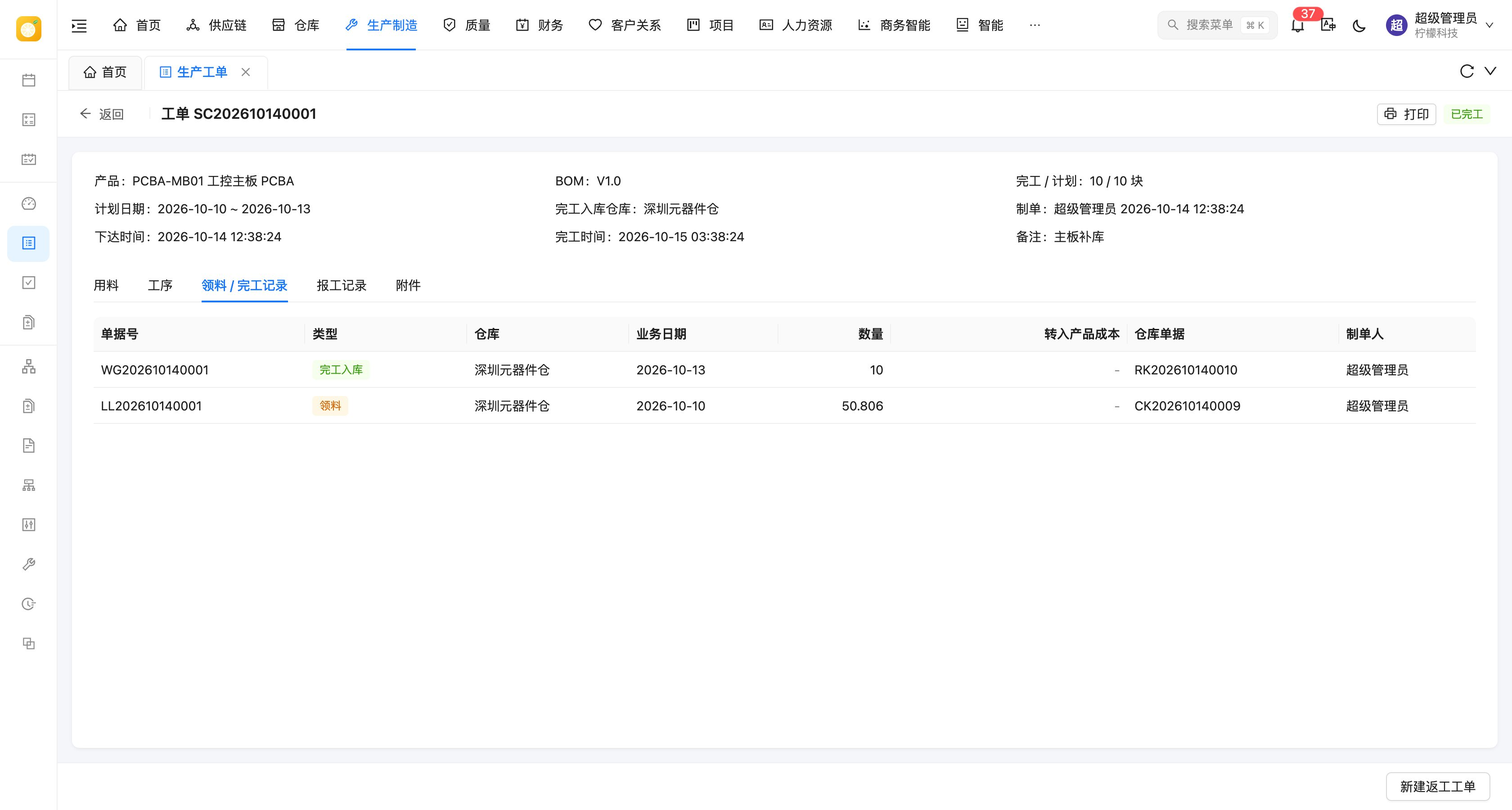
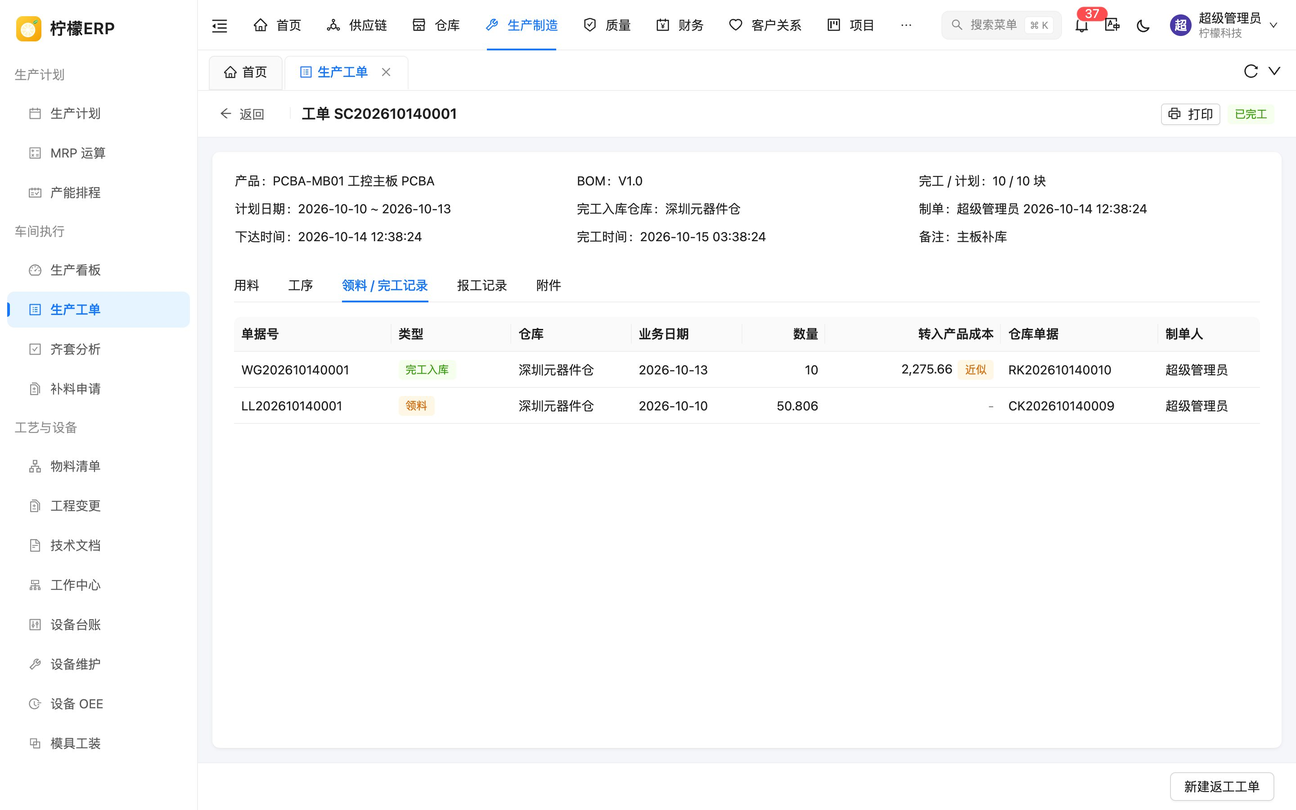
docs: 同步付款审批金额、成本可见范围、自动核销红字冲抵等修复

diff --git a/docs/dev/guide/stock-cost.md b/docs/dev/guide/stock-cost.md
@@ -62,9 +62,9 @@ StockChange.of(warehouseId, locationId, materialId, batchNo, qty, serials)
 | 采购入库 / 退货 | 行不含税金额（本位币，含促销、返利、整单优惠分摊）/ 数量，同时作为业务单价；退货按退货单价冲减 | scm `ScmStockCosts.enrich` |
 | 销售出库 | 当前均价（`unitCost` 为空），业务单价为不含税售价 | `ScmStockCosts.enrich` |
 | 销售退货 | 该订单原销售出库的实际成本（`StockCostService.docUnitCosts`），没有时按均价 | `ScmStockCosts.originalOutCosts` |
-| 其他入库 | 表单填写的成本价，前端默认 `GET /wms/stock/unit-cost` 返回的均价，保存成本为 0 的行前二次确认 | `StockDocForm.vue` |
+| 其他入库 | 表单填写的成本价（4 位小数）；有 `wms:stock:cost` 时前端默认 `GET /wms/stock/unit-cost` 返回的均价，没有时不带出、为空按确认时的均价；保存成本为 0 的行前二次确认 | `StockDocForm.vue` |
 | 期初入库 | 导入行的 `costPrice`，为空取参考成本价 | `WmsOpeningStockService` |
-| 盘点 | 盘盈 `wms_check_item.cost_price`（空则均价），盘亏均价 | `WmsCheckService` |
+| 盘点 | 盘盈 `wms_check_item.cost_price`（空则确认时的均价；前端输入 4 位小数，有 `wms:stock:cost` 时以均价作为输入提示），盘亏均价 | `WmsCheckService` |
 | 组装 / 拆卸 | 组装：成套件 = 子件出库成本合计（`docAmount`）/ 数量；拆卸：成套件出库成本按 子件数量 × 均价 的权重 `allocate` 到子件 | `WmsAssemblyService` |
 | 冲销 | 原单各物料的实际成本单价反向（`StockDocRules.reverseChanges(..., costs)`） | `StockDocReverser` |
 | 生产领料 / 补料、其他出库、各类领用 | 当前均价 | — |
@@ -102,17 +102,22 @@ StockChange.of(warehouseId, locationId, materialId, batchNo, qty, serials)
 | 功能 | 接口 / 代码 |
 | --- | --- |
 | 库存查询的均价、库存金额 | `WmsStockMapper.xml` 的 `avgCost` 片段（没有成本记录或数量为 0 且无单价时取参考成本价），寄售仓为空；合计 `GET /wms/stock/total` |
-| 当前均价（表单默认值） | `GET /wms/stock/unit-cost?materialIds=`，权限 `wms:stock:cost` 或入库单 / 盘点单的新增、修改 |
+| 当前均价（表单默认值） | `GET /wms/stock/unit-cost?materialIds=`，只要求 `wms:stock:cost`（均价是系统计算的成本，只能新增 / 修改入库单、盘点单的人拿不到）；前端没有该权限时不调用 |
 | 经营历史 | `GET /wms/stock/history`（`WmsStockQueryService.history`，前端 `components/wms/StockHistory.vue`）：期初 + 日期范围内的流水（最多 5000 条），不选仓库时排除调拨和寄售仓；日期取单据业务日期 |
 | 库存流水 | 流水分页返回 `bizPrice`、`costPrice`、`costAmount`、`partnerName`、`costEstimated` |
 
-单价和金额由按钮权限 `wms:stock:cost`（「查看成本金额」）控制，**后端不返回**（置空），不是只在前端隐藏；前端用 `hasPerm('wms:stock:cost')` 决定是否显示列。盘点单详情另外允许盘点单新增 / 修改权限查看（`costVisible`），入库单详情允许入库单新增 / 修改权限查看明细成本价。
+单价和金额由按钮权限 `wms:stock:cost`（「查看成本金额」）控制，**后端不返回**（置空），不是只在前端隐藏；前端用 `hasPerm('wms:stock:cost')` 决定是否显示列。系统计算的成本（当前均价、出库成本、确认后的实际入库成本、盘点差异金额）只给有该权限的人；没有该权限、但要录入成本价的人只能看到自己填写的值：
+
+- **盘点单详情**（`WmsCheckService.detail`）：`costVisible` = 有 `wms:stock:cost`，或盘点单**未完成**且有 `wms:check:add` / `wms:check:edit`；为假时置空 `costPrice`。当前均价 `avgCost`（`fillAvgCost`）和已完成单据的差异金额 `diffAmount`（按流水 `selectSlotCosts` 汇总）只在有 `wms:stock:cost` 时填充；按库存生成明细时同样只对有该权限的人带出均价。前端差异金额列按 `hasPerm('wms:stock:cost')` 显示；已完成单据没填成本价的盘盈行，成本价列显示 `diffAmount ÷ 盘盈数量`（实际计价单价），不再显示「默认当前均价」。
+- **出入库单详情**（`WmsStockDocService.detail`）：没有 `wms:stock:cost` 时总是置空 `bizPrice`；`costPrice` 只在入库单为**草稿**且有 `wms:in:add` / `wms:in:edit` 时保留（填写其他入库的成本价），确认后的入库单、出库单都置空。
 
 进销存报表（bi 模块 `BiJxcMapper.xml`）：`flowCost` 片段按 `wms_doc_id` 关联库存流水，汇总单据各物料的成本金额与数量；`saleUnitCost` = `COALESCE(实时出库成本单价, 当月核算单价, 参考成本价)`。资产状况、商品分析的库存金额用 `latestCost`（实时均价 → 最近一期核算单价 → 参考成本价）。详见 [进销存报表开发](./jxc-report)。
 
 ## 近似成本与升级
 
-升级前的流水没有实时计价。升级脚本按以下方式回填并标记 `cost_estimated = 1`：采购入库 / 退货取单据不含税单价，其他流水取所在月份及之前最近一期的成本核算单价，没有时取参考成本价。物料的实时成本按当前库存 × 最近一期核算单价初始化，历史完工入库的流水成本回填为材料成本（工费为 0，`cost_basis` 为空）。前端在这些行的成本价前显示「近似」标签；经营历史的期初含这类流水时返回 `openingEstimated`。
+升级前的流水没有实时计价。升级脚本按以下方式回填并标记 `cost_estimated = 1`：采购入库 / 退货取单据不含税单价，其他流水取所在月份及之前最近一期的成本核算单价，没有时取参考成本价。物料的实时成本按当前库存 × 最近一期核算单价初始化，历史完工入库的流水成本回填为材料成本（工费为 0，`cost_basis` 为空）。前端在这些行的成本价前显示「近似」标签；经营历史的期初含这类流水时返回 `openingEstimated`。工单详情的「领料 / 完工记录」（`WoDocsTab.vue`）中，`cost_basis` 为空但 `material_cost` 不为空的完工入库显示料工费合计和橙色「近似」标签（`mes.wo.cost.estimated` / `estimatedTip`），不再显示「-」。
+
+采购入库按各自的业务单价回填、出库和物料成本按核算单价，两者累计会有差额，导致经营历史的结余金额与库存查询的库存金额不一致。因此升级脚本最后把物料库存金额与流水成本累计对齐：对流水全部是回填近似成本（没有升级后业务、没有成本为空的流水）、且流水累计数量（不含供应商寄售仓）等于 `wms_material_cost.qty` 的物料，`amount` 取流水 `cost_amount` 累计，`unit_cost` 重算为 `amount / qty`（6 位小数）。已对齐的不再变化，可重复执行；累计数量为 0、金额为负的物料不处理。
 
 ## 与月末成本核算的关系
 

diff --git a/docs/dev/guide/settlement.md b/docs/dev/guide/settlement.md
@@ -45,7 +45,7 @@ order: 20
 - 同一张收付款单只能核销同一往来单位、同一币种的单据；核销合计（`fin_settlement.amount_fc`）**不能小于 0**，可以为 0（红字冲账单、退货恰好抵消欠款）；
 - 收付款单的 `amount` / `amount_fc` 只是核销合计（实收实付），折让合计记 `discount_amount` / `discount_fc`，多收部分记 `advance_amount`（原币），都不含在 `amount` 中；
 - 不走审批时立即调用 `settle` 核销：`addSettled(本位币核销 + 本位币折让)`、`addSettledFc(原币核销 + 原币折让)`、`addDiscount`，然后 `toAdvance`；
-- 付款审批（`fin_payment`，`ApprovalFlow` `PAYMENT_FLOW`）时保存只校验未核销金额，审批通过后（`onPaymentFinished`）才核销并生成预付单；审批变量 `amount` 为核销合计的本位币；
+- 付款审批（`fin_payment`，`ApprovalFlow` `PAYMENT_FLOW`）时保存只校验未核销金额，审批通过后（`onPaymentFinished`）才核销并生成预付单；审批变量 `amount` 为实际付出的本位币 = `s.amount`（核销合计，外币为原币 × 收付款汇率）+ `advance × settleRate`（多付转预付），不能只取核销合计，否则可以把大额付款做成预付绕过金额条件；
 - 删除（未生成凭证）时按明细反向 `addSettled` / `addSettledFc` / `addDiscount`，并 `FinAdvanceService.delete(advanceId)` 删除转入的预收预付单（已冲抵或凭证已审核时会失败，整体回滚）。
 
 ### 自动核销（前端）
@@ -54,11 +54,13 @@ order: 20
 
 「自动核销」调用 `components/fin/fin.js` 的 `allocateSettle(bills, target, remainingOf)`：
 
-1. 红字单据（`remainingOf(b) < 0`）全额冲抵，目标金额相应增加；
+1. 红字单据（`remainingOf(b) < 0`）由内部的 `offsetRed` 冲抵：冲抵总额不超过蓝字单据（`remainingOf(b) > 0`）的余额合计，按 单据日期 → 到期日 → ID 从早到晚冲抵，冲不完的红字单据（或其剩余部分）不填，留待下次核销；目标金额按冲抵额相应增加；
 2. 蓝字单据按 单据日期 → 到期日 → ID 从早到晚分配，直到目标金额用完；
 3. 返回各单据的核销金额和剩余（多收）金额。
 
-`remainingOf` 传入「未核销 − 已填折让」，所以先填折让再自动核销时折让保留。票据收票、背书的 `BillSettleTable.vue` 共用这个函数。页面按 `diff = 本次金额 − 核销合计` 显示「多收」提示和「转为预收 / 预付款」勾选框，`diff < 0` 时禁止提交。
+「全部核销」调用 `settleAllAmounts(bills, remainingOf)`：蓝字单据全部按余额填满，红字单据同样经 `offsetRed` 冲抵，核销合计不会为负数；页面随后把本次金额同步为核销合计。因此冲账、退货金额大于勾选的欠款时，两个按钮都会得到核销合计为 0 的结果，可以直接提交，不需要手工改红字单据的金额。
+
+`remainingOf` 传入「未核销 − 已填折让」，所以先填折让再自动核销时折让保留。票据收票、背书的 `BillSettleTable.vue` 共用 `allocateSettle`。页面按 `diff = 本次金额 − 核销合计` 显示「多收」提示和「转为预收 / 预付款」勾选框，`diff < 0` 时禁止提交。
 
 ### 折让记录
 
@@ -96,7 +98,7 @@ order: 20
 | 操作 | 接口 | 权限 | 说明 |
 | --- | --- | --- | --- |
 | 列表 / 详情 | `GET /fin/offset`、`/{id}` | `fin:offset:list` | `FinOffsetMapper.selectPageList` / `selectDetail` 关联红字单据的核销金额、凭证号和状态 |
-| 新增 / 修改 | `POST` / `PUT /{id}` | `fin:offset:add` / `edit` | `OffsetRequests.Save`；修改用条件更新，只能改待复核的 |
+| 新增 / 修改 | `POST` / `PUT /{id}` | `fin:offset:add` / `edit` | `OffsetRequests.Save`；修改用条件更新，只能改待复核的。`handlerId` 不传时：新增取当前用户，修改保留原经办人（原来也没有时取当前用户） |
 | 删除 | `DELETE /{ids}` | `fin:offset:remove` | 只能删待复核的 |
 | 复核 | `POST /{id}/review` | `fin:offset:review` | 见下文 |
 | 取消复核 | `POST /{id}/cancel-review` | `fin:offset:review` | 见下文 |
@@ -146,7 +148,7 @@ order: 20
 | `model/AccountRole`、`model/BillSource`、`model/OffsetStatus` | 凭证用途、单据来源 `OFFSET`、冲账单状态 |
 | `service/FinBizRules` | `fin.offset.reviewSeparate` |
 | `mapper/fin/FinSettlementItemMapper.xml`、`FinOffsetMapper.xml`、`FinBillMapper.xml`、`FinAdvanceMapper.xml`、`FinPartnerLedgerMapper.xml` | 折让记录、冲账单列表、核销条件更新、账龄、往来对账 |
-| 前端 `components/fin/SettlementPage.vue`、`SettlementForm.vue`、`SettlementDiscounts.vue`、`fin.js`（`allocateSettle`） | 收付款列表、新增、折让记录、自动核销 |
+| 前端 `components/fin/SettlementPage.vue`、`SettlementForm.vue`、`SettlementDiscounts.vue`、`fin.js`（`allocateSettle`、`settleAllAmounts`） | 收付款列表、新增、折让记录、自动核销 / 全部核销 |
 | 前端 `views/fin/advance/index.vue`、`views/fin/offset/index.vue`、`components/fin/BillPage.vue` | 预收预付、冲账单、应收应付（坏账按钮） |
 
 ## 扩展

diff --git a/docs/manual/wms/stock.md b/docs/manual/wms/stock.md
@@ -91,6 +91,8 @@ order: 5
 
 ::: tip 近似成本
 系统升级到实时库存成本之前的历史流水没有当时的计价，升级时按单据价格（采购取不含税单价）、流水所在月份的成本核算单价或物料的参考成本价补算，是近似值：这些行的成本价前显示橙色「**近似**」标签（鼠标悬停有说明），期初余额包含这类流水时，「期初余额」后也显示「近似」。升级之后发生的流水是准确的实时成本。[库存流水](./flow)中同样标出。
+
+升级时，流水全部是补算成本、且流水累计数量与当前库存一致的物料，库存金额取这些流水的成本累计（均价随之重算），因此经营历史的结余金额与库存查询的库存金额一致。
 :::
 
 ## 实时库存成本
@@ -103,7 +105,7 @@ order: 5
 | --- | --- |
 | [采购入库](../scm/purchase-in) | 行的不含税金额 ÷ 数量（本位币，已扣除促销、返利、整单优惠的分摊）；**采购退货**按退货单的不含税单价冲减 |
 | [销售出库](../scm/sales-out) | 按当前均价出库；**销售退货**按该订单原销售出库的实际成本入库 |
-| [其他入库](./in#成本价) | 按填写的成本价（默认当前均价，可改为 0，如赠品） |
+| [其他入库](./in#成本价) | 按填写的成本价（有「查看成本金额」权限时默认带出当前均价，可改为 0，如赠品；不填按确认时的均价） |
 | 期初入库 | 按[期初余额](../fin/opening)导入时填写的成本单价，不填按物料的参考成本价 |
 | 其他出库、报废出库、各类领用 | 按当前均价出库 |
 | [盘点](./check#盘盈成本价) | 盘盈按盘点明细填写的成本价（不填按确认时的均价），盘亏按当前均价 |
@@ -118,7 +120,7 @@ order: 5
 其他规则：
 
 - 物料出完（结余为 0）时剩余金额全部转出，不留尾差；结余为 0 时保留最后的单价，下次没有指定成本的入库按它计价；从来没有成本的物料取物料档案的「参考成本价」。
-- 物料第一次发生库存变动时开始计价，以当时的库存数量和参考成本价作为起点；从旧版本升级的系统，升级时按各物料最近一期成本核算的单价（没有时取参考成本价）初始化。
+- 物料第一次发生库存变动时开始计价，以当时的库存数量和参考成本价作为起点；从旧版本升级的系统，升级时按各物料最近一期成本核算的单价（没有时取参考成本价）初始化，再与补算的历史流水成本累计对齐（见上文「近似成本」）。
 - 供应商寄售仓与本公司仓库之间**不能互相调拨**，见[调拨单](./transfer#供应商寄售仓)。
 
 ::: warning 与月末成本核算的关系
@@ -144,7 +146,7 @@ order: 5
 ::: tip 提示
 安全库存在[物料管理](./material)中设置，按全部仓库的库存合计判断。数量最多显示 4 位小数，并带千分位。
 
-均价、库存金额，以及库存流水、经营历史、出入库单详情中的单价和金额，都由按钮权限「**查看成本金额**」（库存查询下的按钮）控制，内置角色中总经理、仓库管理员、会计拥有；没有该权限时这些列不显示，系统也不返回这些数据。
+均价、库存金额，以及库存流水、经营历史、出入库单详情中的单价和金额、盘点单的差异金额，都由按钮权限「**查看成本金额**」（库存查询下的按钮）控制，内置角色中总经理、仓库管理员、会计拥有；没有该权限时这些列不显示，系统也不返回这些数据。录入其他入库、盘点单时也不会带出当前均价：没有该权限的人只能在草稿入库单、未确认的盘点单上看到和填写自己的成本价，见[入库单 · 成本价](./in#成本价)、[盘点单 · 盘盈成本价](./check#盘盈成本价)。
 
 多规格物料的库存按 SKU 记录，每个 SKU 单独一行（物料编码如 TS01-RD-XL，规格型号中带颜色、尺码等属性值）；款式本身不能出入库，没有库存。按款式编码查询（如输入 TS01）可以列出该款式的全部 SKU。
 :::

diff --git a/docs/manual/wms/in.md b/docs/manual/wms/in.md
@@ -69,7 +69,7 @@ order: 1
 | 批次号 | 启用批次管理的物料必填，最多 64 字符；未启用的不可填 |
 | 生产日期、有效期至 | 仅批次物料可填，有效期不能早于生产日期。同一批次以第一次入库填写的日期为准 |
 | 数量 | 必填，必须大于 0，最多 4 位小数；序列号物料只能是整数 |
-| 成本价 | 仅「其他入库」显示（寄售入库不计成本，不显示）。这一行的入库成本单价，选择物料后自动填入物料的当前均价，可修改，见[成本价](#成本价) |
+| 成本价 | 仅「其他入库」显示（寄售入库不计成本，不显示）。这一行的入库成本单价，有「查看成本金额」权限时选择物料后自动填入物料的当前均价，可修改，见[成本价](#成本价) |
 | 序列号 | 仅序列号物料。可用扫码枪逐个扫描，也可以粘贴多个（逗号、分号、空格、换行分隔），自动去重；右侧显示「已录个数 / 数量」，不一致时变为黄色。单个序列号不超过 64 字符 |
 | 备注 | 可选 |
 
@@ -90,10 +90,10 @@ order: 1
 
 ![其他入库填写成本价](/images/manual/wms/in-add-cost.jpg)
 
-- 选择物料后默认填入该物料的**当前均价**（[实时库存成本](./stock#实时库存成本)，没有时为参考成本价），按入库物料的实际价值修改，例如样品退回按原成本、受赠物资按公允价值；
+- 有「查看成本金额」权限时，选择物料后默认填入该物料的**当前均价**（[实时库存成本](./stock#实时库存成本)，没有时为参考成本价），按入库物料的实际价值修改，例如样品退回按原成本、受赠物资按公允价值；没有该权限时不自动带出均价（均价属于成本信息），输入框提示「默认当前均价」，按实际价值填写，不填按确认时的均价；
 - 可以改为 **0**（如赠品）：保存时提示「有 N 行成本价为 0，将按零成本入库（如赠品）。确定保存吗？」，确认后才保存，避免漏填被当作零成本；
 - 清空不填时，确认入库时按当时的均价计价；
-- 成本价不能小于 0，最多 6 位小数。
+- 成本价不能小于 0，最多 4 位小数。
 
 成本价只影响实时库存成本（库存金额、经营历史、毛利），月末[成本核算](../fin/cost)对其他入库另行计价。期初库存在「财务 → [期初余额](../fin/opening)」中导入，导入模板的「成本单价」列就是期初入库的成本（不填按参考成本价）。
 
@@ -107,7 +107,7 @@ order: 1
 
 ## 详情
 
-点击单据号或「查看」打开详情，显示表头信息（入库类型、填写了时显示入库类别、来源单号、往来单位（采购入库、销售退货等业务单据生成时为供应商或客户）、冲销原单、制单、确认、收货信息）和明细（物料、库位、批次及生产日期 ~ 有效期、数量、成本价、序列号、备注）。「成本价」列在单据有成本价、且你有「查看成本金额」权限或入库单新增 / 修改权限时显示：手工其他入库为填写的成本价，业务单据生成的为业务传入的入库成本（如采购的不含税单价、完工入库的单位成本）。
+点击单据号或「查看」打开详情，显示表头信息（入库类型、填写了时显示入库类别、来源单号、往来单位（采购入库、销售退货等业务单据生成时为供应商或客户）、冲销原单、制单、确认、收货信息）和明细（物料、库位、批次及生产日期 ~ 有效期、数量、成本价、序列号、备注）。「成本价」列在单据有成本价、且你有「查看成本金额」权限时显示：手工其他入库为填写的成本价，业务单据生成的为业务传入的入库成本（如采购的不含税单价、完工入库的单位成本）。没有「查看成本金额」权限但有入库单新增 / 修改权限的，只在草稿入库单上看到填写的成本价，确认后的入库单不显示成本价。
 
 ![入库单详情](/images/manual/wms/in-detail.jpg)
 

diff --git a/docs/manual/wms/check.md b/docs/manual/wms/check.md
@@ -66,9 +66,9 @@ order: 4
 
 ![盘点单填写盘盈成本价](/images/manual/wms/check-add.jpg)
 
-差异为正（盘盈）的行可以填写「**盘盈成本价**」，即盘盈的物料以什么单价进入库存（不含税、按基本单位）。输入框中灰色提示「均价 X」为该物料的当前均价；不填时，确认盘点时按当时的均价入库。盘亏的行不用填写，按当前均价出库，显示「-」。
+差异为正（盘盈）的行可以填写「**盘盈成本价**」，即盘盈的物料以什么单价进入库存（不含税、按基本单位，最多 4 位小数）。有「查看成本金额」权限时，输入框中灰色提示「均价 X」为该物料的当前均价；没有该权限时只提示「默认当前均价」，不显示具体数值。不填时，确认盘点时按当时的均价入库。盘亏的行不用填写，按当前均价出库，显示「-」。
 
-该列在有「查看成本金额」权限，或有盘点单新增 / 修改权限时显示。成本价只影响[实时库存成本](./stock#实时库存成本)，月末[成本核算](../fin/cost)对盘盈盘亏另行计价。
+该列在有「查看成本金额」权限，或有盘点单新增 / 修改权限时显示。当前均价属于成本信息，只给有「查看成本金额」权限的人看。成本价只影响[实时库存成本](./stock#实时库存成本)，月末[成本核算](../fin/cost)对盘盈盘亏另行计价。
 
 ### 保存规则
 
@@ -89,10 +89,12 @@ order: 4
 
 ![盘点单详情](/images/manual/wms/check-detail.jpg)
 
-详情显示盘点仓库、盘点日期、冻结仓库、制单、确认、明细统计（N 行，有差异 M 行）。有「查看成本金额」权限或盘点单新增 / 修改权限时，明细多两列：
+详情显示盘点仓库、盘点日期、冻结仓库、制单、确认、明细统计（N 行，有差异 M 行）。明细中与成本有关的两列按权限显示：
 
-- **盘盈成本价**：盘盈行填写的成本价；没有填写的显示「均价 X」或「默认当前均价」；非盘盈行为「-」；
-- **差异金额**：已完成的盘点单为实际计入库存的成本金额（盘亏为负数，红色）；未确认的按当前均价（盘盈有填写成本价时按成本价）估算，显示为「≈ 金额」，鼠标悬停提示「按当前均价估算，确认时以实际计价为准」。明细可按「全部 / 有差异 / 未录入」筛选；草稿状态下提示「草稿中的账面数量为最近一次保存时的库存，确认时以当时的库存为准」。底部按钮：草稿时「编辑」「确认盘点」。
+- **盘盈成本价**：有「查看成本金额」权限时显示；没有该权限但有盘点单新增 / 修改权限的，只在盘点单确认前显示。盘盈行填写的成本价；未确认时没有填写的显示「均价 X」（有「查看成本金额」权限）或「默认当前均价」；已完成的盘点单中没有填写的显示实际计价的单价（差异金额 ÷ 盘盈数量）；非盘盈行为「-」；
+- **差异金额**：只对有「查看成本金额」权限的人显示。已完成的盘点单为实际计入库存的成本金额（盘亏为负数，红色）；未确认的按当前均价（盘盈有填写成本价时按成本价）估算，显示为「≈ 金额」，鼠标悬停提示「按当前均价估算，确认时以实际计价为准」。
+
+明细可按「全部 / 有差异 / 未录入」筛选；草稿状态下提示「草稿中的账面数量为最近一次保存时的库存，确认时以当时的库存为准」。底部按钮：草稿时「编辑」「确认盘点」。
 
 确认时弹窗提示：将以当前库存为账面数量计算差异，盘盈入库、盘亏出库，库存调整为实盘数量，确认后不能修改。
 

diff --git a/docs/manual/fin/settlement.md b/docs/manual/fin/settlement.md
@@ -64,7 +64,7 @@ order: 5
 
 1. 选择客户（供应商），系统列出未核销单据并全部勾选，「**本次收款**」（「**本次付款**」）默认为勾选单据的未核销合计。
 2. 按实际到账金额修改「本次收款」，取消勾选本次不处理的单据。
-3. 点击「**自动核销**」：系统先用勾选的红字单据（退货、冲账单）全额冲抵，再把金额按单据日期从早到晚（同一天按到期日）分配到勾选的单据，早的欠款先结清。也可以点「**全部核销**」，把勾选单据的未核销余额（扣除已填的折让）全部填满，本次收款同步改为核销合计；或者直接在「本次核销」中逐笔填写。
+3. 点击「**自动核销**」：系统先用勾选的红字单据（退货、冲账单）冲抵，再把金额按单据日期从早到晚（同一天按到期日）分配到勾选的单据，早的欠款先结清。也可以点「**全部核销**」，把勾选的蓝字单据的未核销余额（扣除已填的折让）全部填满，红字单据同样冲抵，本次收款同步改为核销合计；或者直接在「本次核销」中逐笔填写。红字单据的冲抵规则见下文[核销规则](#核销规则)。
 4. 需要折让、抹零的单据在「折让 / 抹零」中填写金额（填写后再点「全部核销」或「自动核销」，已填的折让会保留）。
 5. 核对右上方的「核销合计」「折让合计」：
    - 本次收款等于核销合计：可以直接保存；
@@ -76,6 +76,7 @@ order: 5
 
 - 本次核销金额必须与单据金额同号：正数单据填正数，**红字单据（退货、冲账单等）填负数，用来冲抵**；核销金额加折让的绝对值不能超过单据的未核销金额。
 - 收付款金额（实收实付）= 各单据本次核销金额之和，**不能小于 0**。红字单据恰好抵消欠款时可以为 0，例如[冲账单](./offset)的金额足以抵扣欠款，不需要再收付款。
+- 「自动核销」「全部核销」时，红字单据冲抵的总额**不超过勾选的蓝字欠款合计**，按单据日期从早到晚冲抵，冲不完的红字单据（或其剩余部分）留到下次核销。因此冲账、退货金额大于欠款时，也可以直接点「自动核销」后确认，不需要手工修改核销金额。
 - 一张收付款单只能核销**同一往来单位、同一币种**的单据；已勾选某币种的单据后，其他币种的单据不能再勾选（打开时默认只勾选与第一张单据同币种的单据）。
 
 ### 折让与抹零
@@ -109,7 +110,7 @@ order: 5
 
 ## 付款审批
 
-系统内置「付款审批」流程（财务主管 → 金额 ≥ 10 万元时总经理 → 抄送出纳，默认未发布）。在[流程中心](../workflow/model)发布后：
+系统内置「付款审批」流程（财务主管 → 金额 ≥ 10 万元时总经理 → 抄送出纳，默认未发布）。流程变量「付款金额」是这笔付款**实际付出的本位币金额**：核销合计加上多付转为预付款的金额，外币按付款单的汇率折算。多付转预付的部分同样计入，大额付款不会因为转为预付而绕过金额条件。在[流程中心](../workflow/model)发布后：
 
 - 新增付款单保存后进入审批，状态为「审批中」，**暂不核销**应付单（保存时只校验未核销金额），不计入账龄，也不能生成凭证；
 - 审批通过后核销应付单（含折让），多付的部分此时转为预付款；若此时金额已超过单据的未核销金额，审批失败；

diff --git a/docs/manual/mes/wo.md b/docs/manual/mes/wo.md
@@ -188,7 +188,7 @@ order: 10
 - **材料**：工单的净领料成本（领料 + 补料的出库成本 − 退料成本）按完工数量分摊。不是最后一次完工时，按 BOM 用量计算本次应耗的数量（不超过之前完工还没有用掉的已领数量，没领或少领的只计已领的部分）× 净领料单价；**最后一次完工**（累计达到工单数量）取「净领料成本 − 之前完工已转入的材料成本」，超领的物料也由它承担，不留尾差。
 - **人工、制造费用**：与月末成本核算同一口径，为 工时 × [工作中心](./work-center)的人工费率 / 制造费用率。有报工工时的工序按累计报工工时，按本次完工数量占该工序合格数的比例转入（报废品的工时由合格品承担）；**没有报工工时**的工序（不使用报工，或报工没有填工时）按 标准工时 × 完工数量 计算；最后一次完工取已发生工费的剩余部分。没有工艺路线的工单、费率为 0 的工作中心没有工费。
 
-每张完工入库单记录成本口径和材料、人工、制造费用。有「查看成本金额」权限时，工单详情「领料 / 完工记录」页签的「转入产品成本」列显示该完工入库的成本金额和口径标签（标准成本 / 实际成本 / 当前均价），鼠标悬停显示「材料 ¥X，人工 ¥Y，制造费用 ¥Z」。系统升级到实时库存成本之前办理的完工入库没有记录口径，显示「-」。
+每张完工入库单记录成本口径和材料、人工、制造费用。有「查看成本金额」权限时，工单详情「领料 / 完工记录」页签的「转入产品成本」列显示该完工入库的成本金额和口径标签（标准成本 / 实际成本 / 当前均价），鼠标悬停显示「材料 ¥X，人工 ¥Y，制造费用 ¥Z」。系统升级到实时库存成本之前办理的完工入库没有记录口径，显示按入库时产品流水回填的成本金额（全部计为材料），并带橙色「**近似**」标签，鼠标悬停提示「升级到实时库存成本之前的完工入库，按入库时产品流水回填的成本（全部计为材料），是近似值」。
 
 ![工单详情 - 领料 / 完工记录](/images/manual/mes/wo-detail-docs.jpg)
 

diff --git a/docs/manual/fin/offset.md b/docs/manual/fin/offset.md
@@ -47,7 +47,7 @@ order: 9.5
 | --- | --- | --- |
 | 方向 | 是 | **应收冲账**：抵扣客户的欠款（如垫付运费、销售返利、三包赔偿）；**应付冲账**：抵扣欠供应商的款（如供应商返利、赔偿）。切换方向时清空往来单位 |
 | 冲账日期 | 是 | 默认今天；复核时该日期所在期间必须未结账 |
-| 经办人 | 否 | 不填时保存为制单人 |
+| 经办人 | 否 | 新增时不填保存为制单人；修改时不填保留原经办人（原来也没有时为当前修改人） |
 | 客户 / 供应商 | 是 | 随方向切换 |
 | 冲账项目 | 是 | 业务字典「冲账项目」，预置垫付运费、销售返利、三包赔偿、其他，可在[业务字典](../system/biz-dict)中增加 |
 | 冲账金额 | 是 | 大于 0，人民币 |
@@ -84,10 +84,10 @@ order: 9.5
 
 冲账单复核后，在[收款单 / 付款单](./settlement)中选择该客户（供应商），生成的红字单据会出现在未核销单据中（金额为负数），默认勾选：
 
-- 点「自动核销」时，红字单据先全额冲抵，剩余金额再分配到其他欠款；
+- 点「自动核销」时，红字单据先冲抵勾选的欠款（冲抵总额不超过欠款合计），剩余金额再分配到其他欠款；
 - 冲账金额小于欠款时，本次实收（实付）= 欠款 − 冲账金额；
 - 冲账金额等于勾选的欠款时，本次收付款金额可以为 0，直接保存即可完成抵扣；
-- 冲账金额大于欠款时，只冲抵欠款部分：「自动核销」会全额冲抵红字单据，核销合计变为负数而不能保存，请手工把红字单据的「本次核销」改为与欠款相等的负数，剩余部分留待以后再抵扣。
+- 冲账金额大于欠款时，只冲抵欠款部分：「自动核销」「全部核销」按单据日期从早到晚冲抵红字单据，冲抵总额等于勾选的欠款合计，核销合计为 0，直接确认即可，不需要手工修改金额；冲不完的红字单据（或其剩余部分）留待以后再抵扣。
 
 抵扣后冲账单列表的状态下方显示「已抵扣 ¥…」或「已全部抵扣」。
 

diff --git a/docs/dev/guide/miniapp.md b/docs/dev/guide/miniapp.md
@@ -570,7 +570,7 @@ runAction(() => changeOpportunityStage(o.id, data), { success: t('crm.opportunit
 | 库位批次 | 每行按 `/wms/stock` 的可用库存先到期先出排序（过期的排最后），默认第一项；赠品所选库位批次不够时提交时自动拆到其他库位批次 |
 | 整单优惠 | 基数为扣除促销优惠后的合计，抹分 / 抹角 / 抹元按分计算差额累加到 `wholeDiscount` |
 
-成本金额只在后端控制：没有「查看成本金额」（`wms:stock:cost`）权限时，`/wms/stock/summary` 不返回 `unitCost`、`amount`，`/wms/stock/history` 返回 `costVisible: false` 且不带单价金额；盘点单详情的 `costVisible` 在有 `wms:stock:cost`、`wms:check:add` 或 `wms:check:edit` 时为真（小程序盘点入口要求 `wms:check:edit`，因此盘盈行总能填成本价）。页面按字段是否返回或 `costVisible` 显示，不自己判断权限。
+成本金额只在后端控制：没有「查看成本金额」（`wms:stock:cost`）权限时，`/wms/stock/summary` 不返回 `unitCost`、`amount`，`/wms/stock/history` 返回 `costVisible: false` 且不带单价金额；盘点单详情的 `costVisible` 在有 `wms:stock:cost`，或盘点单未完成且有 `wms:check:add` / `wms:check:edit` 时为真（小程序盘点入口要求 `wms:check:edit` 且只列草稿盘点单，因此盘盈行总能填成本价）；当前均价 `avgCost` 只在有 `wms:stock:cost` 时返回，没有时输入框提示「默认按确认时的当前均价」，不显示「默认均价 X」。页面按字段是否返回或 `costVisible` 显示，不自己判断权限。
 
 ## 与 Web 端共用的内容
 

diff --git a/docs/manual/workflow/business.md b/docs/manual/workflow/business.md
@@ -67,7 +67,7 @@ order: 9
 | 流程标识 | 流程（业务） | 可用的条件变量 | 内置审批链 | 审批通过后 | 拒绝 / 撤回 / 终止后 |
 | --- | --- | --- | --- | --- | --- |
 | fin_voucher | [凭证](../fin/voucher)审批 | 借方金额合计、凭证来源（下拉，字典）、凭证号 | 财务主管审核 | 凭证「已审核」，审核人为最后审批人 | 恢复为「未审核」 |
-| fin_payment | 付款审批（[付款单](../fin/settlement#付款审批)） | 付款金额、付款单号 | 财务主管 → 金额 ≥ 10 万元时总经理 → 抄送出纳 | 核销应付单，付款单生效；以票据背书 / 开票付款时，票据变为「已背书」/「未兑付」 | 付款单「已拒绝」，不核销；票据恢复为「持有」或「已作废」 |
+| fin_payment | 付款审批（[付款单](../fin/settlement#付款审批)） | 付款金额（实际付出的本位币：核销合计 + 多付转预付）、付款单号 | 财务主管 → 金额 ≥ 10 万元时总经理 → 抄送出纳 | 核销应付单，付款单生效；以票据背书 / 开票付款时，票据变为「已背书」/「未兑付」 | 付款单「已拒绝」，不核销；票据恢复为「持有」或「已作废」 |
 | fin_expense | [费用报销](../fin/claim)审批 | 报销金额、报销单号 | 部门主管 → 会计 → 金额 ≥ 5000 元时总经理 → 抄送出纳 | 「待付款」 | 恢复为「草稿」 |
 | fin_loan | [员工借款](../fin/loan)审批 | 借款金额、借款单号 | 部门主管 → 会计 → 金额 ≥ 1 万元时总经理 → 抄送出纳 | 「待付款」 | 恢复为「草稿」 |
 

diff --git a/docs/manual/scm/sales-out.md b/docs/manual/scm/sales-out.md
@@ -61,7 +61,7 @@ order: 180
 | 仓库 | 见下文「[明细选择仓库](#明细选择仓库)」 |
 | 库位 / 批次 | 必填，从该行仓库的现有库存中选择，显示可用数量 |
 | 数量 | 必填 |
-| 含税单价 | 必填。选择客户和商品后自动带出默认价：客户执行价 → 价目表 → 等级价 → 零售价 → 最近价，单价下方显示来源，见[开单默认价](./price-list#开单默认价)（同一商品录了多行时，每行按本行数量匹配价目表的起订数量）；「价格参考」查看该商品的销售、报价历史和各客户价格对比。有适用的折扣促销时下方显示「促销价 ¥…（促销名称）」 |
+| 含税单价 | 必填。选择客户和商品后自动带出默认价：客户执行价 → 价目表 → 等级价 → 零售价 → 最近价，单价下方显示来源，见[开单默认价](./price-list#开单默认价)（同一商品录了多行时，每行按本行数量匹配价目表的起订数量）；「价格参考」查看该商品的销售、报价历史和各客户价格对比，点击其中的价格即可填入单价，见[价格参考](./price-list#价格参考)。有适用的折扣促销时下方显示「促销价 ¥…（促销名称）」 |
 | 税率、价税合计 | 税率默认 13%，执行价、价目表带出时同时带出 |
 | 序列号 | 序列号物料从所选库位的在库序列号中选择或扫码 |
 

diff --git a/docs/manual/miniapp/warehouse.md b/docs/manual/miniapp/warehouse.md
@@ -106,7 +106,7 @@ order: 7
 3. 扫描物料累计实盘数量（包装条码按换算率），也可以直接输入「实盘」数量；实盘与账面一致显示为绿色，不一致为橙色；
 4. 扫描到账面上没有的物料时自动新增一行「盘盈」，批次物料需要填写批次号；
 5. 序列号物料选中后扫描序列号，实盘数量等于序列号个数；
-6. 实盘大于账面（盘盈）的行显示「**成本价**」输入框，用于确定盘盈入库的成本：输入框中提示「默认均价 X」（该物料当前的均价，没有均价时提示「默认按确认时的当前均价」）。不填时按确认盘点时的当前均价入账；在电脑端已填写的成本价会带出并保留；
+6. 实盘大于账面（盘盈）的行显示「**成本价**」输入框，用于确定盘盈入库的成本：有「查看成本金额」权限时输入框中提示「默认均价 X」（该物料当前的均价），没有该权限或物料没有均价时提示「默认按确认时的当前均价」。不填时按确认盘点时的当前均价入账；在电脑端已填写的成本价会带出并保留；
 7. 底部显示「差异行」数量，点击「**保存实盘**」提示「已保存」。
 
 保存只更新盘点单中的实盘数量和盘盈成本价，盘点单仍为草稿；全部盘完后回到电脑端[盘点单](../wms/check)确认盘点，生成盘盈盘亏。
